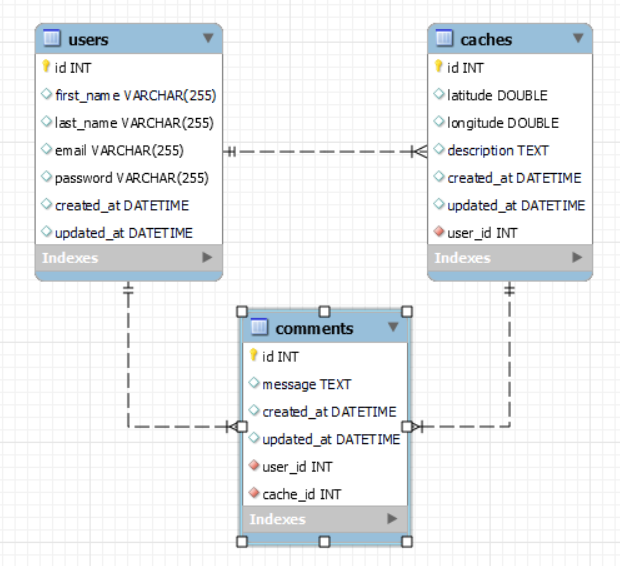
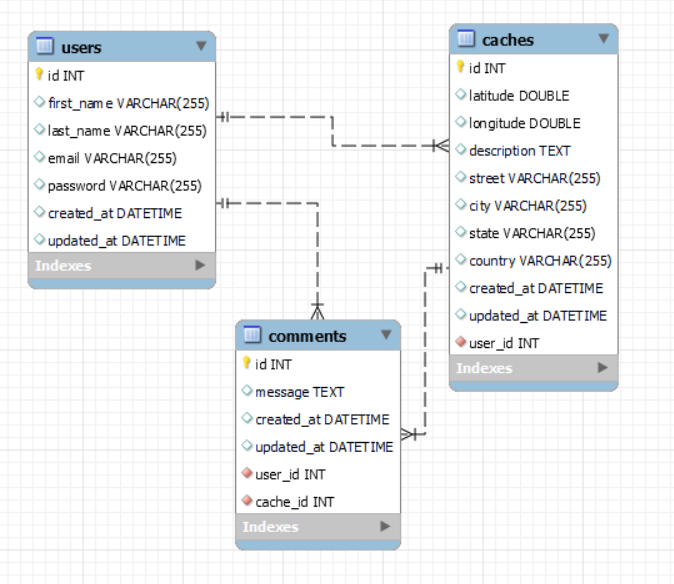
Add cache street address; Get address from coords

Changed region(s): [[0.0306, 0.03, 0.9806, 0.9912]]

diff --git a/flask_app/templates/edit_cache.html b/flask_app/templates/edit_cache.html
@@ -41,6 +41,7 @@
             {% endif %}
         {% endwith %}
         <form action="/usercaches/update" method="post" id="addcache-form">
+            <button type="button" onclick="getLocation()">Share Location</button>
             <input type="hidden" name="id" value="{{ cache.id }}">
             <label for="latitude">Latitude:
                 <input id="lat-id" type="text" name="latitude" value="{{ cache.latitude }}">
@@ -50,6 +51,19 @@
             </label>
             <label for="description">Description:
                 <input type="text" name="description" value="{{ cache.description }}">
+            </label>
+            <button type="button" onclick="getAddress()">Get Address</button>
+            <label for="street">Street:
+                <input type="text" name="street" id="street" value="{{ cache.street }}">
+            </label>
+            <label for="city">City:
+                <input type="text" name="city" id="city" value="{{ cache.city }}">
+            </label>
+            <label for="state">State:
+                <input type="text" name="state" id="state" value="{{ cache.state }}">
+            </label>
+            <label for="country">Country:
+                <input type="text" name="country" id="country" value="{{ cache.country }}">
             </label>
             <button type="submit" id="addcache-button">Submit</button>
         </form>

diff --git a/flask_app/static/scripts/scripts.js b/flask_app/static/scripts/scripts.js
@@ -15,6 +15,27 @@ function showPosition(position) {
     longId.value = long;
 }
 
+async function getAddress(){
+    let lat = document.getElementById('lat-id').value;
+    let long = document.getElementById('lon-id').value;
+    let key = 'https://api.geocodify.com/v2/reverse?api_key=27be93eef5f40a54861619efa7617d2a9d924ba5';
+    let request = key.concat('&lat=', lat, '&lng=', long);
+    console.log(request)
+    let response = await fetch(request)
+    if (response.ok) {
+        let json = await response.json();
+        console.log(json.response.features[0].properties);
+        let address = json.response.features[0].properties;
+
+        document.getElementById('street').value = address.street;
+        document.getElementById('city').value = address.locality;
+        document.getElementById('state').value = address.region_a;
+        document.getElementById('country').value = address.country_code;
+    } else {
+        alert("HTTP-Error: " + response.status);
+    }
+}
+
 async function get_all_caches() {
     let caches = await fetch('/get_all_caches')
         .then( response => response.json() )

diff --git a/flask_app/templates/dashboard.html b/flask_app/templates/dashboard.html
@@ -55,6 +55,19 @@
                 <label for="description">Description:
                     <input type="text" name="description">
                 </label>
+                <button type="button" onclick="getAddress()">Get Address</button>
+                <label for="street">Street:
+                    <input type="text" name="street" id="street">
+                </label>
+                <label for="city">City:
+                    <input type="text" name="city" id="city">
+                </label>
+                <label for="state">State:
+                    <input type="text" name="state" id="state">
+                </label>
+                <label for="country">Country:
+                    <input type="text" name="country" id="country">
+                </label>
                 <button type="submit" id="addcache-button">Submit</button>
             </form>
         </div>

diff --git a/flask_app/models/cache.py b/flask_app/models/cache.py
@@ -10,6 +10,10 @@ class Cache:
         self.latitude = data['latitude']
         self.longitude = data['longitude']
         self.description = data['description']
+        self.street = data['street']
+        self.city = data['city']
+        self.state = data['state']
+        self.country = data['country']
         self.created_at = data['created_at']
         self.updated_at = data['updated_at']
         self.user_id = data['user_id']
@@ -127,8 +131,8 @@ class Cache:
     @classmethod
     def save_cache(cls, data ):
         query = """
-        INSERT INTO caches (latitude, longitude, description, user_id) 
-        VALUES (%(latitude)s, %(longitude)s, %(description)s, %(user_id)s)
+        INSERT INTO caches (latitude, longitude, description, user_id, street, city, state, country) 
+        VALUES (%(latitude)s, %(longitude)s, %(description)s, %(user_id)s, %(street)s, %(city)s, %(state)s, %(country)s)
         ;"""
         return connectToMySQL(cls.DB).query_db( query, data )
 
@@ -138,7 +142,7 @@ class Cache:
     def update_cache(cls, data ):
         query = """
         UPDATE caches 
-        SET latitude = %(latitude)s, longitude = %(longitude)s, description = %(description)s 
+        SET latitude = %(latitude)s, longitude = %(longitude)s, description = %(description)s, street = %(street)s, city = %(city)s, state = %(state)s, country = %(country)s
         WHERE id = %(id)s
         ;"""
         return connectToMySQL(cls.DB).query_db( query, data )

diff --git a/flask_app/controllers/caches.py b/flask_app/controllers/caches.py
@@ -25,7 +25,11 @@ def post_new_cache():
         'latitude': request.form['latitude'],
         'longitude': request.form['longitude'],
         'description': request.form['description'],
-        'user_id': session['user_id']
+        'user_id': session['user_id'],
+        'street' : request.form['street'],
+        'city' : request.form['city'],
+        'state' : request.form['state'],
+        'country' : request.form['country']
     }
     Cache.save_cache(data)
     return redirect ('/dashboard')
